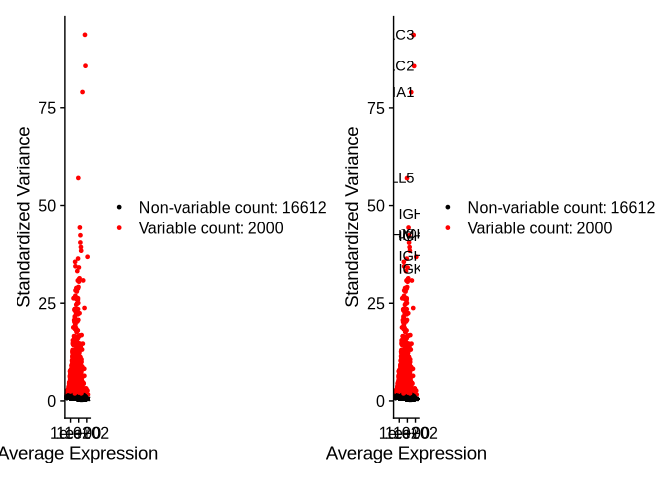
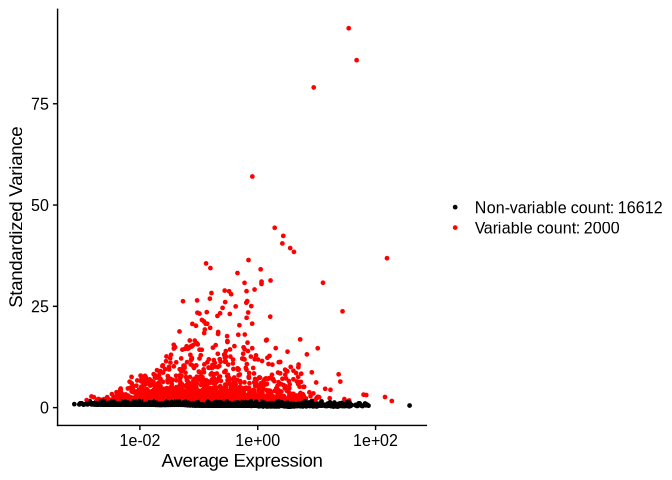
figures fixed.

Changed region(s): [[0.0, 0.0312, 0.7188, 1.0], [0.6562, 0.4062, 1.0, 0.5], [0.2812, 0.5312, 0.3125, 0.5625]]

diff --git a/scripts/preprocessing.md b/scripts/preprocessing.md
@@ -157,22 +157,33 @@ highlighting highly variable genes. `LabelPoints` adds labels to the top
 10 genes on the plot, with `repel = TRUE` ensuring labels do not
 overlap. Finally, the two plots are combined for visualization.
 
+In the analysis, the top 10 most highly variable genes were identified
+using the VariableFeatures function in Seurat. These genes are IGLC3,
+IGLC2, IGHA1, IGLL5, IGHG2, IGHM, JCHAIN, IGHG4, IGHGP, and IGKC. They
+exhibit significant variance across the dataset and are critical for
+downstream analysis, such as clustering and trajectory inference. The
+VariableFeaturePlot highlights these genes, with labeled points for the
+top 10, showcasing their standardized variance versus average
+expression. These highly variable genes are likely to capture
+biologically relevant differences in the dataset.
+
 ``` r
 # Identify the 10 most highly variable genes
 top10 <- head(VariableFeatures(seurat.obj), 10)
 
 # plot variable features with and without labels
-plot1 <- VariableFeaturePlot(seurat.obj)
-plot2 <- LabelPoints(plot = plot1, points = top10, repel = TRUE)
+VariableFeaturePlot(seurat.obj)
+```
+
+![](preprocessing_files/figure-gfm/unnamed-chunk-7-1.png)<!-- -->
+
+``` r
+LabelPoints(plot = VariableFeaturePlot(seurat.obj), points = top10, repel = TRUE)
 ```
 
     ## When using repel, set xnudge and ynudge to 0 for optimal results
 
-``` r
-plot1 + plot2
-```
-
-![](preprocessing_files/figure-gfm/unnamed-chunk-7-1.png)<!-- --> 
+![](preprocessing_files/figure-gfm/unnamed-chunk-7-2.png)<!-- -->
 
 The `seurat.obj` was saved to the project directory for other steps.
 

diff --git a/README.md b/README.md
@@ -44,8 +44,6 @@ Study Design:
 Single-cell gene expression profiles were generated from tumor and ascites
 samples.
 Data includes chemo-naïve and IDS conditions for 22 patients.
-Raw data is available in the European Genome-phenome Archive (EGA) due to
-privacy concerns.
 
 Publication:
 
